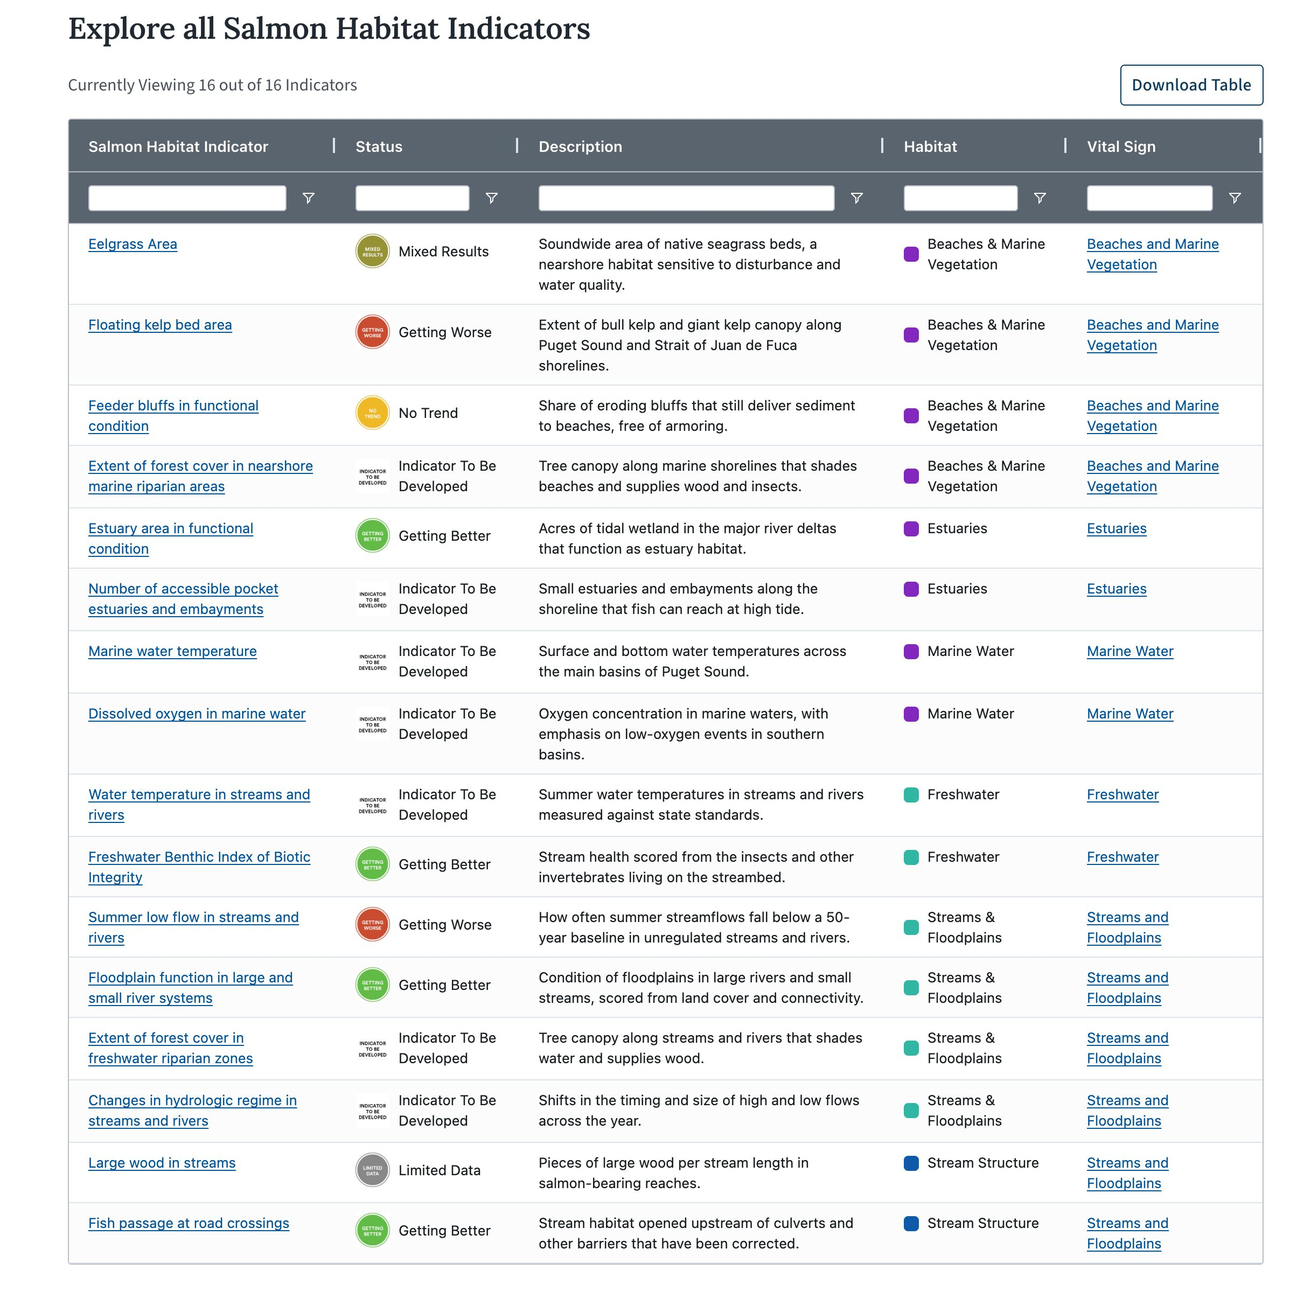
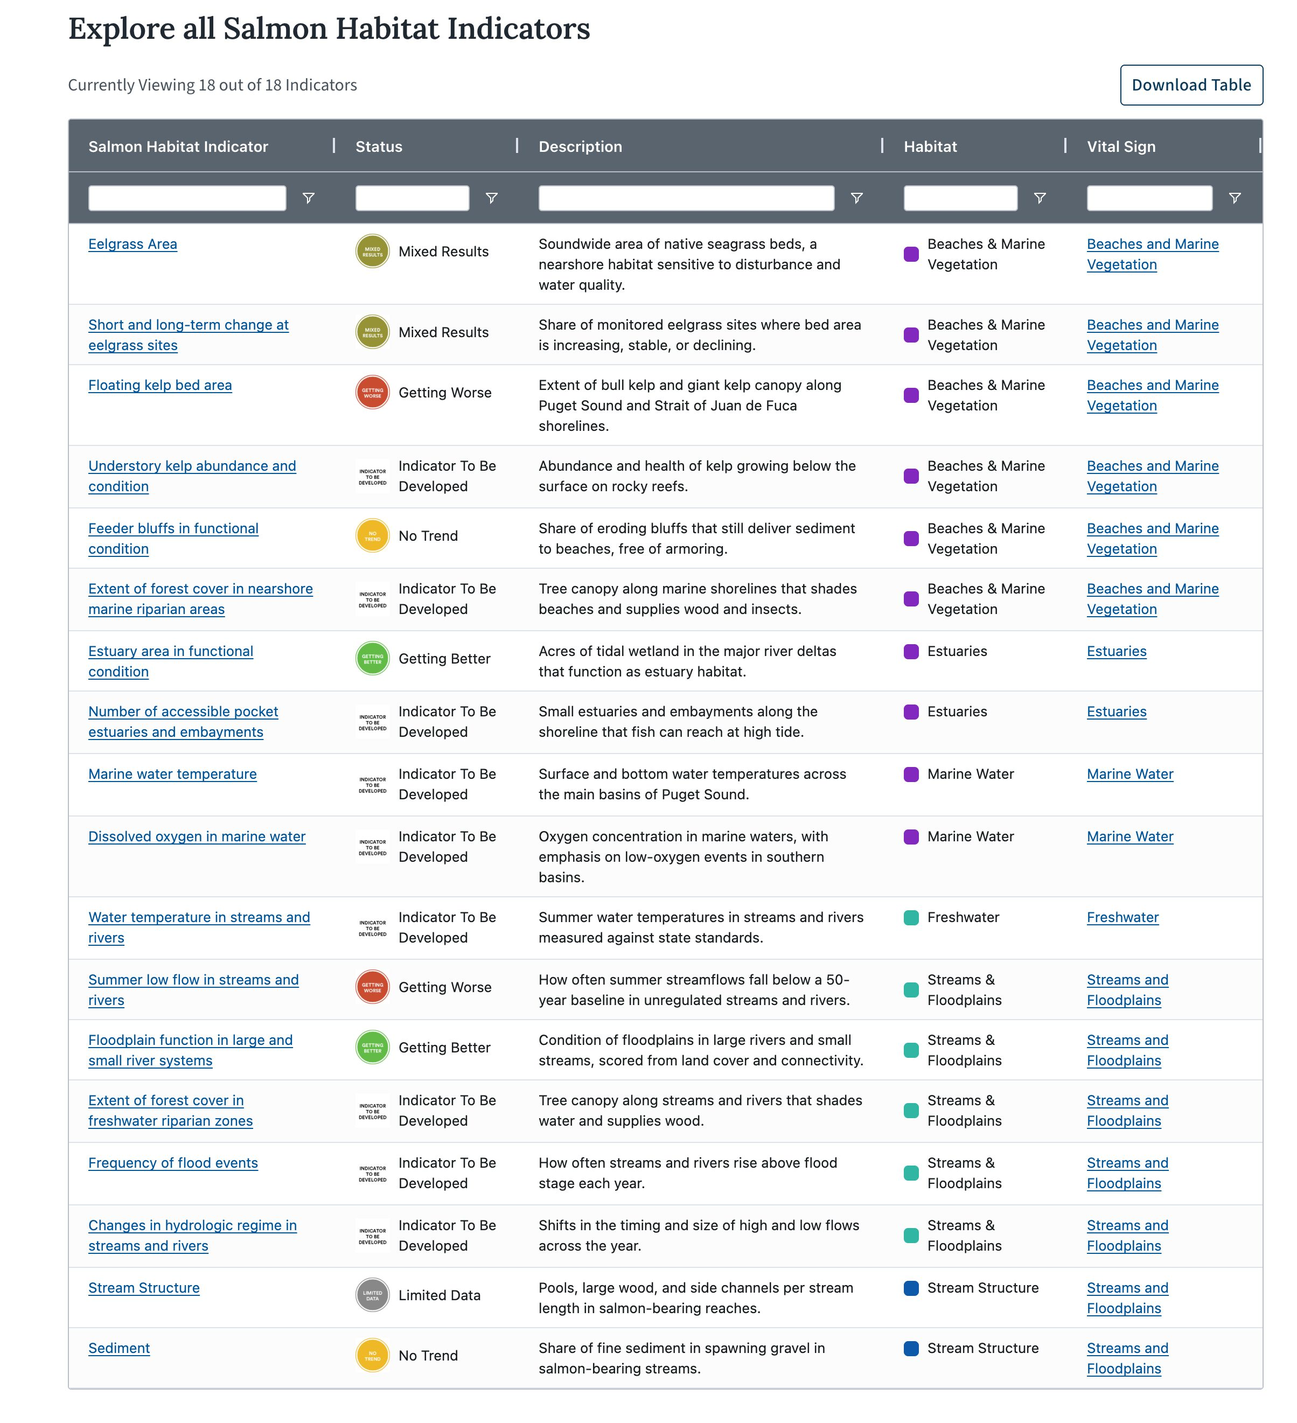
SHI data: PSP's official list of 18 indicators
Megan's email of 2026-10-19 gives the official SHI list: 16 that are also
Vital Sign Indicators and two that are not. Added the three VSIs the
placeholder list lacked (Short and long-term change at eelgrass sites,
Understory kelp abundance and condition, Frequency of flood events) and
dropped Freshwater B-IBI. The two standalone SHIs become Stream Structure
and Sediment; Large wood and Fish passage URLs forward to Stream Structure
and the landing page. The diorama gains the new landmarks, and the epic
preview shots are refreshed.

Changed region(s): [[0.0311, 0.0311, 0.9967, 0.9959], [0.0623, 0.0, 0.4672, 0.0311]]

diff --git a/src/data/pages/salmon-habitat-indicators.ts b/src/data/pages/salmon-habitat-indicators.ts
@@ -4,11 +4,11 @@
 // Vital Sign and Vital Sign Indicator names, ids, progress labels, and the
 // three VSI detail records (Eelgrass Area, Summer low flow, Floodplain
 // function) are public prod content from vitalsigns.pugetsoundinfo.wa.gov and
-// www.pugetsoundinfo.wa.gov (fetched 2026-10-12 and 2026-10-16). Which VSIs
-// are SHIs, their types, the two standalone SHIs and everything on their
-// pages, all salmon narrative, the gauge coordinates and every gauge value in
-// the SHI chart are invented for the prototype. The official SHI list is
-// still owed by PSP; these 16 are placeholders.
+// www.pugetsoundinfo.wa.gov (fetched 2026-10-12 and 2026-10-16). The list of
+// 18 SHIs and which of them are also VSIs is PSP's official list (email,
+// 2026-10-19). Which VSIs are VSI+, each SHI's habitat, everything on the two
+// standalone SHI pages, all salmon narrative, the gauge coordinates and every
+// gauge value in the SHI chart are invented for the prototype.
 
 import type { GoalDetail, ProgressLabel, TargetStatusLabel } from './goals';
 import { GOALS } from './goals';
@@ -260,7 +260,7 @@ const SUMMER_LOW_FLOW_FIELD: SalmonHabitatIndicatorField = {
   ],
 };
 
-// ── The 16 Salmon Habitat Indicators ──────────────────────────────────────
+// ── The 18 Salmon Habitat Indicators ──────────────────────────────────────
 export const SALMON_HABITAT_INDICATORS: SalmonHabitatIndicator[] = [
   // Beaches & Marine Vegetation
   {
@@ -279,6 +279,20 @@ export const SALMON_HABITAT_INDICATORS: SalmonHabitatIndicator[] = [
     },
   },
   {
+    slug: 'eelgrass-sites',
+    name: 'Short and long-term change at eelgrass sites',
+    summary: 'Share of monitored eelgrass sites where bed area is increasing, stable, or declining.',
+    vitalSign: VS.beaches,
+    vitalSignIndicator: { id: 61, progress: 'Mixed Results' },
+    salmonHabitatIndicator: {
+      relationship: 'same',
+      category: 'beaches-marine-vegetation',
+      field: importanceOnly([
+        'Site-level declines show where juvenile salmon may be losing shoreline cover and feeding grounds along their migration routes, even when the soundwide total holds steady.',
+      ]),
+    },
+  },
+  {
     slug: 'floating-kelp-bed-area',
     name: 'Floating kelp bed area',
     summary: 'Extent of bull kelp and giant kelp canopy along Puget Sound and Strait of Juan de Fuca shorelines.',
@@ -289,6 +303,20 @@ export const SALMON_HABITAT_INDICATORS: SalmonHabitatIndicator[] = [
       category: 'beaches-marine-vegetation',
       field: importanceOnly([
         'Kelp forests provide refuge and foraging habitat for juvenile salmon as they move into deeper nearshore waters.',
+      ]),
+    },
+  },
+  {
+    slug: 'understory-kelp',
+    name: 'Understory kelp abundance and condition',
+    summary: 'Abundance and health of kelp growing below the surface on rocky reefs.',
+    vitalSign: VS.beaches,
+    vitalSignIndicator: { id: 82, progress: 'Indicator To Be Developed' },
+    salmonHabitatIndicator: {
+      relationship: 'same',
+      category: 'beaches-marine-vegetation',
+      field: importanceOnly([
+        'Understory kelp shelters the small fish and invertebrates that juvenile salmon feed on as they move along rocky shorelines.',
       ]),
     },
   },
@@ -421,20 +449,6 @@ export const SALMON_HABITAT_INDICATORS: SalmonHabitatIndicator[] = [
       },
     },
   },
-  {
-    slug: 'freshwater-bibi',
-    name: 'Freshwater Benthic Index of Biotic Integrity',
-    summary: 'Stream health scored from the insects and other invertebrates living on the streambed.',
-    vitalSign: VS.freshwater,
-    vitalSignIndicator: { id: 16, progress: 'Getting Better' },
-    salmonHabitatIndicator: {
-      relationship: 'same',
-      category: 'freshwater',
-      field: importanceOnly([
-        'Streambed invertebrates are the main food of juvenile salmon in freshwater, so a healthy benthic community means more food for rearing fish.',
-      ]),
-    },
-  },
   // Streams & Floodplains
   {
     slug: 'summer-low-flow',
@@ -477,6 +491,20 @@ export const SALMON_HABITAT_INDICATORS: SalmonHabitatIndicator[] = [
     },
   },
   {
+    slug: 'flood-events',
+    name: 'Frequency of flood events',
+    summary: 'How often streams and rivers rise above flood stage each year.',
+    vitalSign: VS.streams,
+    vitalSignIndicator: { id: 85, progress: 'Indicator To Be Developed' },
+    salmonHabitatIndicator: {
+      relationship: 'same',
+      category: 'streams-floodplains',
+      field: importanceOnly([
+        'Large floods scour spawning gravel and the eggs buried in it. More frequent winter floods lower egg-to-fry survival, most of all in channels cut off from their floodplains.',
+      ]),
+    },
+  },
+  {
     slug: 'hydrologic-regime',
     name: 'Changes in hydrologic regime in streams and rivers',
     summary: 'Shifts in the timing and size of high and low flows across the year.',
@@ -490,11 +518,12 @@ export const SALMON_HABITAT_INDICATORS: SalmonHabitatIndicator[] = [
       ]),
     },
   },
-  // Stream Structure (no Vital Sign analog yet; nests under Streams and Floodplains)
+  // Stream Structure: the two SHIs that are not Vital Sign Indicators. Neither
+  // has a Vital Sign analog yet; both nest under Streams and Floodplains.
   {
-    slug: 'large-wood',
-    name: 'Large wood in streams',
-    summary: 'Pieces of large wood per stream length in salmon-bearing reaches.',
+    slug: 'stream-structure',
+    name: 'Stream Structure',
+    summary: 'Pools, large wood, and side channels per stream length in salmon-bearing reaches.',
     vitalSign: VS.streams,
     salmonHabitatIndicator: {
       relationship: 'independent',
@@ -503,10 +532,10 @@ export const SALMON_HABITAT_INDICATORS: SalmonHabitatIndicator[] = [
       field: {
         enabled: switches('importanceToSalmon', 'description', 'reportingGuidance'),
         importanceToSalmon: [
-          'Logs and jams create the pools, gravel bars, and cover that spawning adults and rearing juveniles need. Many Puget Sound streams hold a fraction of the wood they carried historically.',
+          'Logs, jams, and deep pools create the cover and resting water that spawning adults and rearing juveniles need. Many Puget Sound streams hold a fraction of the wood and pools they had historically.',
         ],
         description:
-          'Counts of large wood pieces and jams per 100 meters of channel in salmon-bearing reaches, summarized by watershed.',
+          'Counts of large wood pieces and pools per 100 meters of channel in salmon-bearing reaches, summarized by watershed.',
         reportingGuidance: [
           'Methods are in development. Report survey results by watershed until a soundwide sampling design is adopted.',
         ],
@@ -514,28 +543,28 @@ export const SALMON_HABITAT_INDICATORS: SalmonHabitatIndicator[] = [
     },
   },
   {
-    slug: 'fish-passage',
-    name: 'Fish passage at road crossings',
-    summary: 'Stream habitat opened upstream of culverts and other barriers that have been corrected.',
+    slug: 'sediment',
+    name: 'Sediment',
+    summary: 'Share of fine sediment in spawning gravel in salmon-bearing streams.',
     vitalSign: VS.streams,
     salmonHabitatIndicator: {
       relationship: 'independent',
       category: 'stream-structure',
-      standalone: { progress: 'Getting Better', targetStatus: 'Below Target' },
+      standalone: { progress: 'No Trend' },
       field: {
         enabled: switches('importanceToSalmon', 'description', 'keyResults', 'datasets'),
         importanceToSalmon: [
-          'Culverts that are too steep, too small, or perched above the stream keep adults from spawning grounds and juveniles from upstream rearing habitat.',
+          'Salmon eggs need clean gravel with cold, oxygen-rich water moving through it. Fine sediment from roads, logging, and eroding banks fills the spaces between stones and smothers eggs before they hatch.',
         ],
         description:
-          'Miles of potential salmon habitat upstream of corrected barriers, compared with the miles still blocked.',
+          'Percent of fine sediment (smaller than 0.85 millimeters) in spawning gravel, sampled in late summer before spawning.',
         keyResults: [
-          'Corrections since 2013 have reopened about 1,140 miles of potential salmon habitat, more than half of it on state highway crossings.',
-          'Roughly 6,800 known barriers remain on salmon-bearing streams in Puget Sound, most on county and private roads.',
+          'Fine sediment exceeded 12 percent, the level linked to lower egg survival, at 9 of the 24 sampled sites.',
+          'Sites downstream of dense forest road networks held the most fine sediment.',
         ],
         datasets: [
-          { name: 'Fish Passage and Diversion Screening Inventory', steward: 'Washington Department of Fish and Wildlife' },
-          { name: 'Fish passage correction projects, state highways', steward: 'Washington State Department of Transportation' },
+          { name: 'Spawning gravel sediment samples', steward: 'Northwest Indian Fisheries Commission' },
+          { name: 'Forest road sediment delivery inventory', steward: 'Washington State Department of Natural Resources' },
         ],
       },
     },
@@ -551,7 +580,7 @@ export const SHI_BY_SLUG = Object.fromEntries(
 /** Indicators with an in-prototype Vital Sign Indicator page. */
 export const VSI_DETAIL_SLUGS = ['eelgrass-area', 'floodplain-function', 'summer-low-flow'] as const;
 /** SHI indicators with an in-prototype standalone page (all of them). */
-export const STANDALONE_SLUGS = ['large-wood', 'fish-passage'] as const;
+export const STANDALONE_SLUGS = ['stream-structure', 'sediment'] as const;
 /** Indicators with an in-prototype Complete Indicator Report. */
 export const REPORT_SLUGS = [...VSI_DETAIL_SLUGS, ...STANDALONE_SLUGS] as const;
 
@@ -765,49 +794,15 @@ export const VSI_DETAIL_BY_SLUG = Object.fromEntries(
 // 2026-10-16). These records fill the Vital Sign Indicator page's panels so
 // the layout can be judged; none of it is a decided panel list.
 const PARTNER_WDFW: VsiPartner = { name: 'Washington Department of Fish and Wildlife', href: `${PSINFO_SITE}/Organization/Detail/14` };
-const PARTNER_WSDOT: VsiPartner = { name: 'Washington State Department of Transportation', href: `${PSINFO_SITE}/Organization/Detail/21` };
 const PARTNER_NWIFC: VsiPartner = { name: 'Northwest Indian Fisheries Commission', href: `${PSINFO_SITE}/Organization/Detail/33` };
 
 export const STANDALONE_DETAILS: VsiDetail[] = [
   {
-    indicatorSlug: 'fish-passage',
+    indicatorSlug: 'stream-structure',
     description:
-      'This indicator tracks how many miles of potential salmon habitat have been reopened by correcting fish passage barriers at road crossings, and how many miles remain blocked. A barrier is any culvert, dam, or other structure that keeps adult or juvenile salmon from moving up or down a stream.',
+      'This indicator counts pieces of large wood and pools per 100 meters of channel in salmon-bearing reaches, summarized by watershed. Large wood is a log at least 10 centimeters across and 2 meters long lying in or over the active channel; a pool is a slow, deep unit at least as long as the channel is wide.',
     chart: {
-      src: '/photos/shi/fish-passage-chart.svg',
-      alt: 'Bar chart of cumulative miles of potential salmon habitat reopened by barrier corrections, 2013 to 2024, rising from 60 miles in 2013 to about 1,140 miles in 2024, with the steepest gains after 2019.',
-      width: 960,
-      height: 480,
-      caption:
-        'Cumulative miles of potential salmon habitat upstream of corrected fish passage barriers in Puget Sound watersheds, 2013 to 2024, all road owners combined.',
-    },
-    keyResults: [
-      'Barrier corrections since 2013 have reopened about 1,140 miles of potential salmon habitat. Gains accelerated after 2019, when correction work on state highway crossings expanded.',
-      'Roughly 6,800 known barriers remain on salmon-bearing streams in Puget Sound. Most sit on county roads, city streets, and private roads, where corrections have moved more slowly.',
-      'Corrections are uneven across watersheds. The Snohomish, Stillaguamish, and Skagit account for nearly half of the miles reopened.',
-    ],
-    target: 'By 2030, reopen 2,000 miles of potential salmon habitat blocked by road crossings.',
-    dataSource: 'Fish Passage and Diversion Screening Inventory, Washington Department of Fish and Wildlife',
-    reporter: {
-      name: 'Dana Whitcomb',
-      email: 'dana.whitcomb@example.org',
-      organization: 'Washington Department of Fish and Wildlife',
-      organizationHref: PARTNER_WDFW.href,
-    },
-    lastUpdated: '06/30/2026',
-    partners: [PARTNER_WDFW, PARTNER_WSDOT],
-    measurementUnit: 'Mile (miles)',
-    monitoringProgram: 'Fish Passage Program, Washington Department of Fish and Wildlife',
-    methods: [
-      'Barriers are inventoried and assessed in the field against state passability criteria. When a barrier is corrected, the miles of potential habitat upstream, up to the next barrier or natural limit, are credited in the year the project is completed.',
-    ],
-  },
-  {
-    indicatorSlug: 'large-wood',
-    description:
-      'This indicator counts pieces of large wood and log jams per 100 meters of channel in salmon-bearing reaches, summarized by watershed. Large wood is a log at least 10 centimeters across and 2 meters long lying in or over the active channel.',
-    chart: {
-      src: '/photos/shi/large-wood-chart.svg',
+      src: '/photos/shi/stream-structure-chart.svg',
       alt: 'Bar chart of large wood pieces per 100 meters of channel in eight watersheds surveyed in 2024, ranging from 6 in the Lake Washington basin to 31 in the Dungeness, against a reference condition of about 40 pieces.',
       width: 960,
       height: 480,
@@ -816,7 +811,7 @@ export const STANDALONE_DETAILS: VsiDetail[] = [
     },
     keyResults: [
       'All eight surveyed watersheds hold less large wood than the reference condition for unmanaged forested streams.',
-      'Watersheds with large areas of protected forest in their headwaters, such as the Dungeness and Elwha, hold the most wood per 100 meters.',
+      'Watersheds with large areas of protected forest in their headwaters, such as the Dungeness and Elwha, hold the most wood and the most pools per 100 meters.',
       'Results are limited to the reaches surveyed in 2024 and cannot yet be compared over time.',
     ],
     target: 'No targets are currently set for this indicator.',
@@ -830,6 +825,38 @@ export const STANDALONE_DETAILS: VsiDetail[] = [
     lastUpdated: '03/12/2026',
     partners: [PARTNER_NWIFC, PARTNER_WDFW],
     measurementUnit: 'Count (pieces per 100 meters)',
+  },
+  {
+    indicatorSlug: 'sediment',
+    description:
+      'This indicator measures the share of fine sediment, particles smaller than 0.85 millimeters, in the spawning gravel of salmon-bearing streams. Samples are taken in late summer, before adults spawn, at fixed sites in each watershed.',
+    chart: {
+      src: '/photos/shi/sediment-chart.svg',
+      alt: 'Bar chart of percent fine sediment in spawning gravel at sites in eight watersheds sampled in 2024, ranging from 6 percent in the Elwha to 17 percent in the Lake Washington basin, against a 12 percent threshold for egg survival.',
+      width: 960,
+      height: 480,
+      caption:
+        'Median percent fine sediment (smaller than 0.85 millimeters) in spawning gravel, eight watersheds sampled in 2024. The dashed line marks 12 percent, above which egg-to-fry survival drops.',
+    },
+    keyResults: [
+      'Fine sediment exceeded 12 percent, the level linked to lower egg survival, at 9 of the 24 sampled sites.',
+      'Sites downstream of dense forest road networks held the most fine sediment. The Elwha, where the dams came out and the channel is rebuilding, held the least.',
+      'Results from 2018 to 2024 show no clear trend across the region.',
+    ],
+    target: 'No targets are currently set for this indicator.',
+    dataSource: 'Spawning gravel sediment samples compiled by the Northwest Indian Fisheries Commission',
+    reporter: {
+      name: 'Tom Halvorsen',
+      email: 'thalvorsen@example.org',
+      organization: 'Northwest Indian Fisheries Commission',
+      organizationHref: PARTNER_NWIFC.href,
+    },
+    lastUpdated: '05/02/2026',
+    partners: [PARTNER_NWIFC, PARTNER_DNR],
+    measurementUnit: 'Percent (%)',
+    methods: [
+      'At each site, freeze cores or McNeil samples are taken from riffle crests used for spawning. Samples are dried and sieved, and the share of material finer than 0.85 millimeters is reported by weight.',
+    ],
   },
 ];
 

diff --git a/src/data/shi-diorama.ts b/src/data/shi-diorama.ts
@@ -4,7 +4,7 @@
 //
 // Regions are each habitat's traced shape in the scene (the water body, plus
 // the land it owns), in scene order from the headwaters to the open Sound, the way the fish go.
-// Landmarks are the 16 indicators drawn into the scene, each with the plaque
+// Landmarks are the 18 indicators drawn into the scene, each with the plaque
 // position its label hangs from.
 import type { HabitatCategorySlug } from './shi-domain';
 
@@ -44,11 +44,11 @@ export const SHI_DIORAMA_REGIONS: DioramaRegion[] = [
 ];
 
 export const SHI_DIORAMA_LANDMARKS: DioramaLandmark[] = [
-  { slug: 'fish-passage', category: 'stream-structure', label: 'Fish passage at road crossings', x: 28, y: 174, plaque: { x: 120, y: 122 } },
-  { slug: 'large-wood', category: 'stream-structure', label: 'Large wood in streams', x: 120, y: 206, plaque: { x: 160, y: 158 } },
-  { slug: 'freshwater-bibi', category: 'freshwater', label: 'Freshwater B-IBI', x: 230, y: 262, plaque: { x: 185, y: 330 } },
+  { slug: 'sediment', category: 'stream-structure', label: 'Sediment', x: 60, y: 240, plaque: { x: 60, y: 122 } },
+  { slug: 'stream-structure', category: 'stream-structure', label: 'Stream structure', x: 120, y: 206, plaque: { x: 160, y: 158 } },
   { slug: 'stream-temperature', category: 'freshwater', label: 'Stream temperature', x: 318, y: 258, plaque: { x: 330, y: 330 } },
   { slug: 'freshwater-riparian-forest', category: 'streams-floodplains', label: 'Freshwater riparian forest', x: 394, y: 164, plaque: { x: 470, y: 86 } },
+  { slug: 'flood-events', category: 'streams-floodplains', label: 'Flood events', x: 412, y: 248, plaque: { x: 480, y: 336 } },
   { slug: 'floodplain-function', category: 'streams-floodplains', label: 'Floodplain function', x: 434, y: 220, plaque: { x: 354, y: 122 } },
   { slug: 'hydrologic-regime', category: 'streams-floodplains', label: 'Hydrologic regime', x: 484, y: 220, plaque: { x: 474, y: 158 } },
   { slug: 'summer-low-flow', category: 'streams-floodplains', label: 'Summer low flow', x: 538, y: 204, plaque: { x: 514, y: 122 } },
@@ -56,7 +56,9 @@ export const SHI_DIORAMA_LANDMARKS: DioramaLandmark[] = [
   { slug: 'pocket-estuaries', category: 'estuaries', label: 'Pocket estuaries', x: 658, y: 210, plaque: { x: 690, y: 112 } },
   { slug: 'nearshore-riparian-forest', category: 'beaches-marine-vegetation', label: 'Nearshore riparian forest', x: 730, y: 116, plaque: { x: 730, y: 80 } },
   { slug: 'feeder-bluffs', category: 'beaches-marine-vegetation', label: 'Feeder bluffs', x: 732, y: 188, plaque: { x: 820, y: 150 } },
+  { slug: 'eelgrass-sites', category: 'beaches-marine-vegetation', label: 'Eelgrass sites', x: 772, y: 284, plaque: { x: 772, y: 122 } },
   { slug: 'eelgrass-area', category: 'beaches-marine-vegetation', label: 'Eelgrass area', x: 814, y: 300, plaque: { x: 810, y: 372 } },
+  { slug: 'understory-kelp', category: 'beaches-marine-vegetation', label: 'Understory kelp', x: 854, y: 330, plaque: { x: 935, y: 372 } },
   { slug: 'floating-kelp-bed-area', category: 'beaches-marine-vegetation', label: 'Floating kelp bed area', x: 892, y: 262, plaque: { x: 892, y: 196 } },
   { slug: 'dissolved-oxygen', category: 'marine-water', label: 'Dissolved oxygen', x: 970, y: 334, plaque: { x: 960, y: 410 } },
   { slug: 'marine-water-temperature', category: 'marine-water', label: 'Marine water temperature', x: 1040, y: 206, plaque: { x: 1005, y: 158 } },

diff --git a/src/data/epics/shi.ts b/src/data/epics/shi.ts
@@ -31,8 +31,8 @@ export const SHI_EPIC: Epic = {
       key: 'DELTA-1345',
       title: 'Build standalone SHI pages',
       pages: [
-        { title: 'Fish Passage at Road Crossings', label: 'SHI', route: `${SHI}/indicators/fish-passage`, example: true },
-        { title: 'Large Wood in Streams', label: 'SHI', route: `${SHI}/indicators/large-wood` },
+        { title: 'Stream Structure', label: 'SHI', route: `${SHI}/indicators/stream-structure`, example: true },
+        { title: 'Sediment', label: 'SHI', route: `${SHI}/indicators/sediment` },
       ],
     },
     {

diff --git a/src/data/contracts/salmon-habitat-indicators.md b/src/data/contracts/salmon-habitat-indicators.md
@@ -59,7 +59,7 @@ Reproduced from the live site at 1440 and 390 widths:
    cycle loop above the scene (`src/data/shi-lifecycle.ts`) sets each stage
    over its habitat: eggs and alevins, fry and parr, smolts and ocean adults on
    the downstream lane, adults returning to spawn on the upstream lane.
-   All 16 indicators appear as labelled landmarks in the scene, each linking
+   All 18 indicators appear as labelled landmarks in the scene, each linking
    where its table row links. Each habitat is a traced region. Hover outlines
    it; selecting it outlines and tints it and labels it with its indicator
    count, and the rest of the scene is not dimmed. The buttons sit under the
@@ -97,7 +97,9 @@ Prod's ViewAll tree (`PsInfoVsFancyTree`) with a Salmon Habitat column: SHI mark
 ## Data provenance
 
 Public, from prod: Vital Sign and VSI names, ids, progress labels, both VSI
-pages' text, chart images and partner logos. Invented for the prototype: which
-VSIs are SHIs and their types, the two SHI indicators (Large wood in
-streams, Fish passage at road crossings), all salmon narrative, the About
-text, table descriptions, and every gauge value.
+pages' text, chart images and partner logos. From PSP's official SHI list
+(email, 2026-10-19): the 18 SHIs, which 16 are also VSIs, and the two that
+are not (Stream Structure, Sediment). Invented for the prototype: which VSIs
+are VSI+, each SHI's habitat, everything on the Stream Structure and
+Sediment pages, all salmon narrative, the About text, table descriptions,
+and every gauge value.
